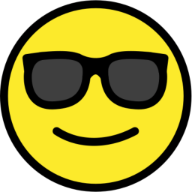
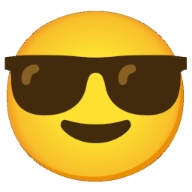
Use Noto Color Emoji

diff --git a/src/components/Emoji.tsx b/src/components/Emoji.tsx
@@ -1,19 +1,21 @@
-import { Openmoji } from "@svgmoji/openmoji";
-import data from "svgmoji/emoji.json";
+// import { Openmoji } from "@svgmoji/openmoji";
+// import data from "svgmoji/emoji.json";
 
 // todo move openmoji object to some global state
 // keeping singleton here to de-dupe for now
 // #premature-optimization
-const openmoji = new Openmoji({ data: data as Openmoji["data"], type: "all" });
+// const openmoji = new Openmoji({ data: data as Openmoji["data"], type: "all" });
 
 export const Emoji = (props: { emoji: string }): JSX.Element => {
   return (
-    <span>
-      <img
-        width="27px" // text line height
-        src={openmoji.url(props.emoji)}
-        style={{ verticalAlign: `-7px` }}
-      />
+    <span
+      style={{
+        fontFamily: "Noto Color Emoji, sans-serif",
+        fontWeight: 400,
+        fontStyle: "normal",
+      }}
+    >
+      {props.emoji}
     </span>
   );
 };

diff --git a/src/routes/home/Home.tsx b/src/routes/home/Home.tsx
@@ -58,18 +58,15 @@ const Home = (): JSX.Element => {
           <Emoji emoji="🥰" />
         </p>
         <p>
-          {`Emojis designed by `}
-          <Link href="https://openmoji.org" target="_blank" rel="noreferrer">
-            OpenMoji
-          </Link>{" "}
-          – the open-source emoji and icon project.{" "}
+          {`(Emojis rendered in `}
           <Link
-            href="https://creativecommons.org/licenses/by-sa/4.0"
+            href="https://fonts.google.com/noto/specimen/Noto+Color+Emoji"
             target="_blank"
             rel="noreferrer"
           >
-            License: CC BY-SA 4.0
+            Noto Color Emoji
           </Link>
+          {`)`}
         </p>
         <div
           style={{

diff --git a/index.html b/index.html
@@ -34,6 +34,13 @@
         }
       })(window.location);
     </script>
+    <!-- Custom emoji font: Noto Color Emoji -->
+    <link rel="preconnect" href="https://fonts.googleapis.com" />
+    <link rel="preconnect" href="https://fonts.gstatic.com" crossorigin />
+    <link
+      href="https://fonts.googleapis.com/css2?family=Noto+Color+Emoji&display=swap"
+      rel="stylesheet"
+    />
   </head>
   <body>
     <div id="root"></div>
